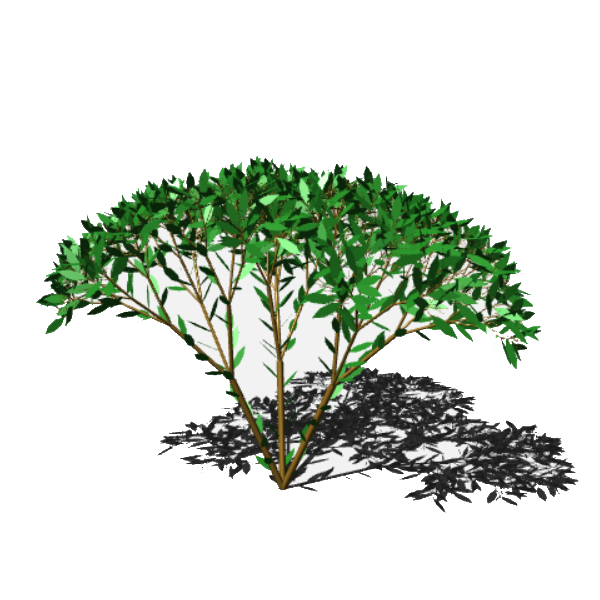
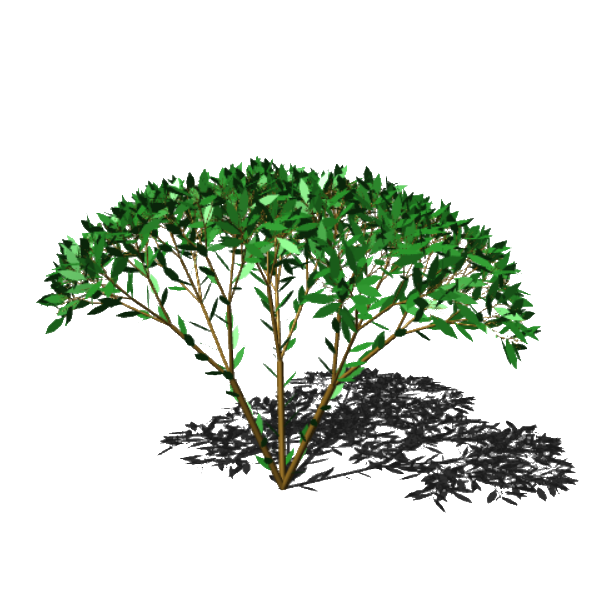
Update CSS and main

diff --git a/style/project.css b/style/project.css
@@ -1,16 +1,16 @@
-#main {
+main {
     text-align: center;
 }
 
-#main h2 {
+main h2 {
     font-size: xx-large;
     text-align: center;
     margin: 2em 0;
     font-family: 'Special Elite', 'Courier New', Courier, monospace;
 }
 
-#main h2::before,
-#main h2::after {
+main h2::before,
+main h2::after {
     content: '';
     display: inline-block;
     width: 20%;
@@ -21,12 +21,12 @@
 }
 
 
-#main section p {
+main section p {
     margin: 10px auto;
     font-weight: normal;
 }
 
-#main section {
+main section {
     max-width: 380px;
     height: 500px;
     display: inline-block;
@@ -36,33 +36,39 @@
     transition: transform 0.5s ease;
 }
 
-#main figure {
+main figure {
     height: 280px;
     display: flex;
     align-items: center;
 }
 
-#main img {
+main img {
     margin-top: 1em auto;
     width: 300px;
 }
 
-#main section:hover {
+main section:hover {
     transform: scale(1.1);
 }
 
-#main > a:hover {
+main > a:hover {
     color:black;
 }
 
-#main {
+main {
     padding: 3em 0 3em 0;
 }
 
 @media (max-width: 600px) {
-    #main h2::before,
-    #main h2::after {
-        width: 15%;
+    main h2::before,
+    main h2::after {
+        width: 5%;
+    }
+    main section {
+        max-width: 300px;
+    }
+    main img {
+        max-width: 250px;
     }
 }
 

diff --git a/style/home.css b/style/home.css
@@ -1,30 +1,30 @@
-#main {
+main {
     padding: 3em 0 3em 0;
 }
 
-#main aside:nth-of-type(odd) {
+main aside:nth-of-type(odd) {
 	grid-template-columns: 4fr 2fr;
 }
 
-#main aside:nth-of-type(even) {
+main aside:nth-of-type(even) {
 	grid-template-columns: 2fr 4fr;
 }
 
-#main aside:nth-of-type(odd) div {
+main aside:nth-of-type(odd) div {
 	grid-column: 1;
 	grid-row: 1;
 }
 
-#main aside:nth-of-type(odd) img {
+main aside:nth-of-type(odd) img {
 	grid-row: 1;
 	grid-column: 2;
 }
 
-#main p {
+main p {
 	margin: 1em 0;
 }
 
-#main aside img {
+main aside img {
 	width: 400px;
 	display: block;
 	margin: auto;
@@ -61,7 +61,7 @@
 }
 
 @media (min-width: 1150px) {
-	#main aside {
+	main aside {
 		display: grid;
 		align-items: center;
 	}
@@ -69,15 +69,15 @@
 		display: flex;
 		margin: 2em;
 	}
-	#main .explore section {
+	main .explore section {
 		width: 500px;
 	}
-	#main section {
+	main section {
 		width: 65%;
 	}
 }
 @media (max-width: 1150px) {
-	#main aside img {
+	main aside img {
 		width: 300px;
 	}
 	#about aside img {

diff --git a/style/skull.css b/style/skull.css
@@ -10,12 +10,12 @@ body {
 	font-size: 1.1em;
 }
 
-#main {
+main {
 	background-image: url('../img/background.png'); 
 	min-height: 100vh;
 }
 
-#main section {
+main section {
 	margin: 4em auto;
 	background-color: rgba(255, 255, 255, 0.9);
 	box-shadow: 12px 12px 2px 1px rgb(0 0 0 / 0.6);
@@ -23,7 +23,7 @@ body {
 	max-width: 85%;
 }
 
-#main .explore section {
+main .explore section {
 	margin: 6em auto;
 	position: relative;
 }
@@ -47,7 +47,7 @@ body {
 	transform: translate(-50%, -2.5em);
 }
 
-#main span,
+main span,
 a.actionButton:hover,
 a.actionButton:visited:hover  {
 	color: orange;

diff --git a/Project.html b/Project.html
@@ -13,7 +13,7 @@
 		<script src="script/skull.js"></script>
 	</head>
 	<body>
-		<div id="main">
+		<main>
 
             <h2>Projects</h2>
             
@@ -33,7 +33,7 @@
                 <p>My first Android game, available on the Play Store. It's inspired by a mini-game from the Nintendo DS.</p>
             </section></a>
 
-		</div>
+		</main>
         <script>load("Project");</script>
 	</body>
 </html>

diff --git a/Prototype.html b/Prototype.html
@@ -13,7 +13,7 @@
 		<script src="script/skull.js"></script>
 	</head>
 	<body>
-		<div id="main">
+		<main>
 
             <h2>Prototypes</h2>
             
@@ -33,7 +33,7 @@
                 <p>Personal side projects I built during my Bachelor's degree, using python with pygame.</p>
             </section></a>
 
-		</div>
+		</main>
         <script>load("Prototype");</script>
 	</body>
 </html>

diff --git a/index.html b/index.html
@@ -12,7 +12,7 @@
 		<script src="script/skull.js"></script>
 	</head>
 	<body>
-		<div id="main">
+		<main>
 			<aside>
 				<section>
 					<h2>Hey,</h2>
@@ -63,7 +63,7 @@
 				</section>
 			</div>
 			
-		</div>
+		</main>
 		<script>load("Home");</script>
 	</body>
 </html>
